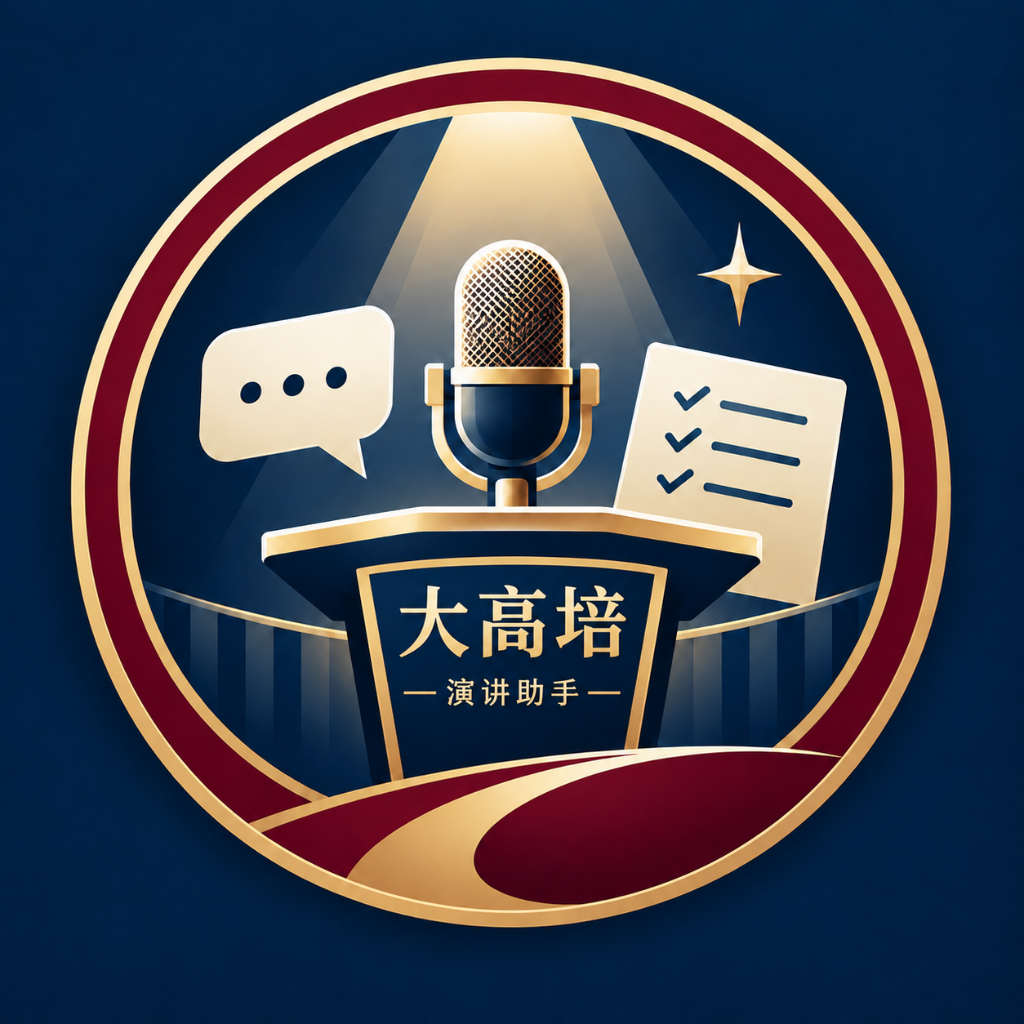
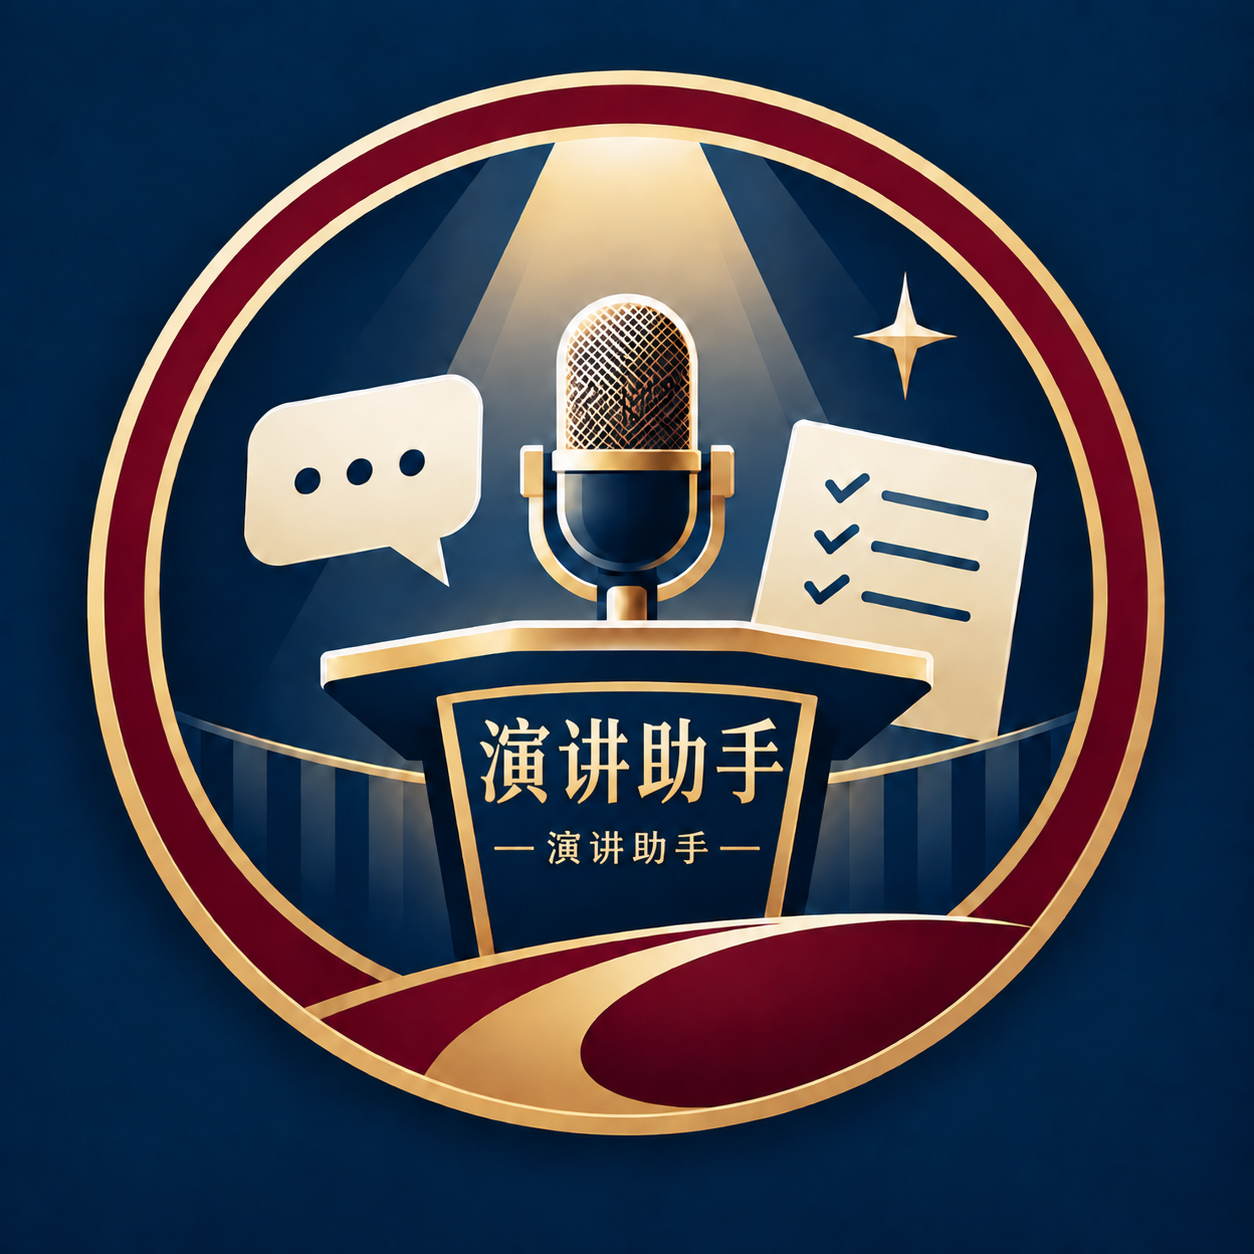
refactor: remove branded naming from stage prep skill

Changed region(s): [[0.375, 0.5625, 0.625, 0.6875], [0.4375, 0.25, 0.5625, 0.375]]

diff --git a/README.md b/README.md
@@ -1,21 +1,20 @@
-# 大高培演讲助手（上台准备）
+# 演讲上台准备助手
 
 这是一个给演讲者用的“上台前教练”。
 
 ## 基本信息
 
-“大高培演讲助手（上台准备）”帮助你精心设计演讲上台前的准备动作。它支持两种模式：上传演讲稿，结合内容、场地和持麦方式，规划身姿、眼神、手势与走位；上传演练视频，基于可核验的画面与台词，提供带时间码、动作截图和语境说明的半自动复盘。
+“演讲上台准备助手”帮助你精心设计演讲上台前的准备动作。它支持两种模式：上传演讲稿，结合内容、场地和持麦方式，规划身姿、眼神、手势与走位；上传演练视频，基于可核验的画面与台词，提供带时间码、动作截图和语境说明的半自动复盘。
 
 它不替你机械编排每一个动作，也不做全自动评分，而是帮助你找到值得保留的表现和优先调整的重点。每次练好一个动作，让表达更自然、更有目的、更打动人。
 
 | 项目 | 内容 |
 | --- | --- |
 | 名称 | `dagaopei-stage-prep` |
-| 中文名 | 大高培演讲助手（上台准备） |
-| 英文名 | Dagaopei Speech Stage Preparation |
+| 中文名 | 演讲上台准备助手 |
+| 英文名 | Speech Stage Preparation Assistant |
 | 版本 | 1.0.0 |
 | 类型 | writing |
-| 作者 | 大高培 |
 
 ## 它的工作方式
 
@@ -178,4 +177,4 @@ python <skill>/scripts/build_report.py <run>/review-input.json --out <run>/revie
 
 ## 一句话介绍
 
-大高培演讲助手，是一个帮你把“我觉得哪里不自然”变成“下一次具体练什么”的演讲排练工具。
+演讲上台准备助手，是一个帮你把“我觉得哪里不自然”变成“下一次具体练什么”的演讲排练工具。

diff --git a/SKILL.md b/SKILL.md
@@ -1,17 +1,16 @@
 ---
 name: dagaopei-stage-prep
-display_name: 大高培演讲助手（上台准备）
-display_name_en: Dagaopei Speech Stage Preparation
+display_name: 演讲上台准备助手
+display_name_en: Speech Stage Preparation Assistant
 description: 为演讲稿规划身眼手步，或根据演练视频做带时间码、截图和台词语境的证据式半自动复盘；适用于上台准备、肢体语言排练和重录对比，不做全自动评分。
 description_zh: 演讲稿动作规划与证据式视频复盘，帮助学员将肢体语言课程转化为单重点排练。
 description_en: Plan purposeful body language for speech scripts and review rehearsal videos with timestamped visual evidence and explicit uncertainty.
 category: writing
 version: 1.0.0
-author: 大高培
 ---
 
 
-# 大高培演讲助手（上台准备）
+# 演讲上台准备助手
 
 作为《“身”入人心》的课后教练，帮助学员从动作设计走向自然表达。保留用户原稿；动作建议是可选择的排练方案。课程主张：一致为根，身眼手步为法，身临其境为魂，四个“意”为练。
 

diff --git a/references/workbuddy-runtime.md b/references/workbuddy-runtime.md
@@ -13,7 +13,7 @@
 
 ## 客户端首次验收
 
-- 能发现“大高培演讲助手（上台准备）”并加载参考资料。
+- 能发现“演讲上台准备助手”并加载参考资料。
 - 用坐姿、右手持麦的稿件规划，不安排走位或双手动作；“绝不放弃”不机械配拒绝手势。
 - 用十秒可见全身视频试抽帧并真正查看图片，正确标出未听音范围。
 - 不知道口播时写未知而非静默；能取得完整台词时，图下前后各两句、当前句加粗。
